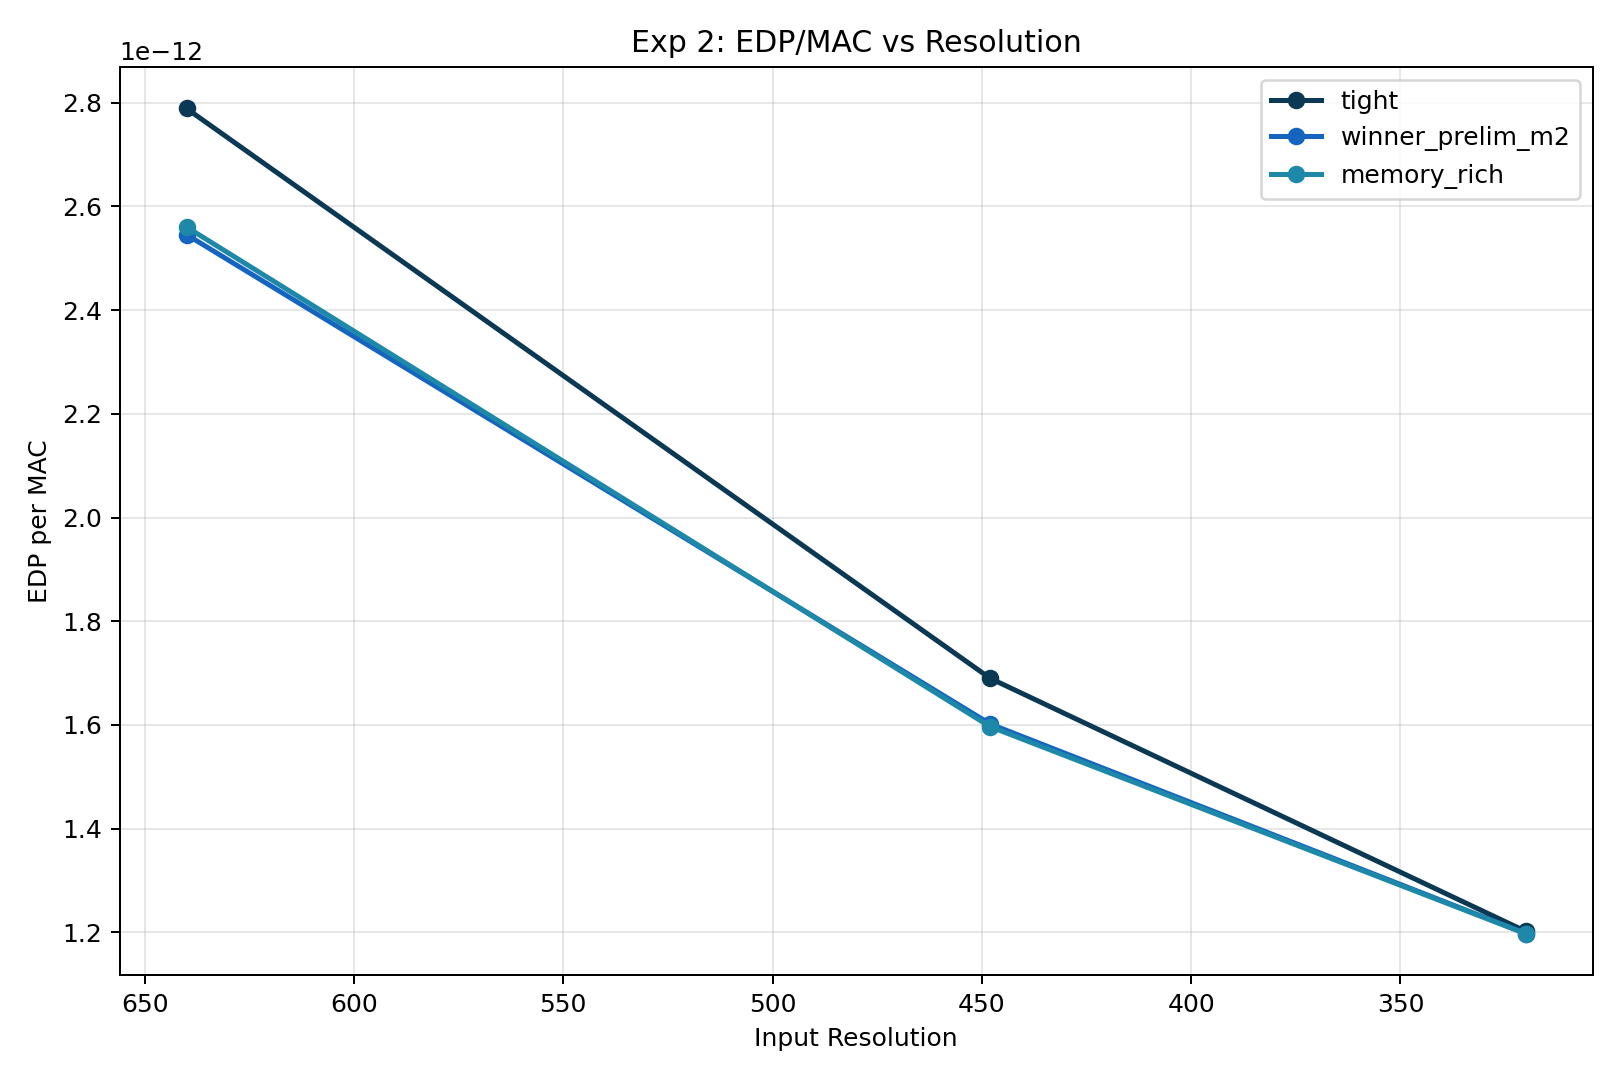
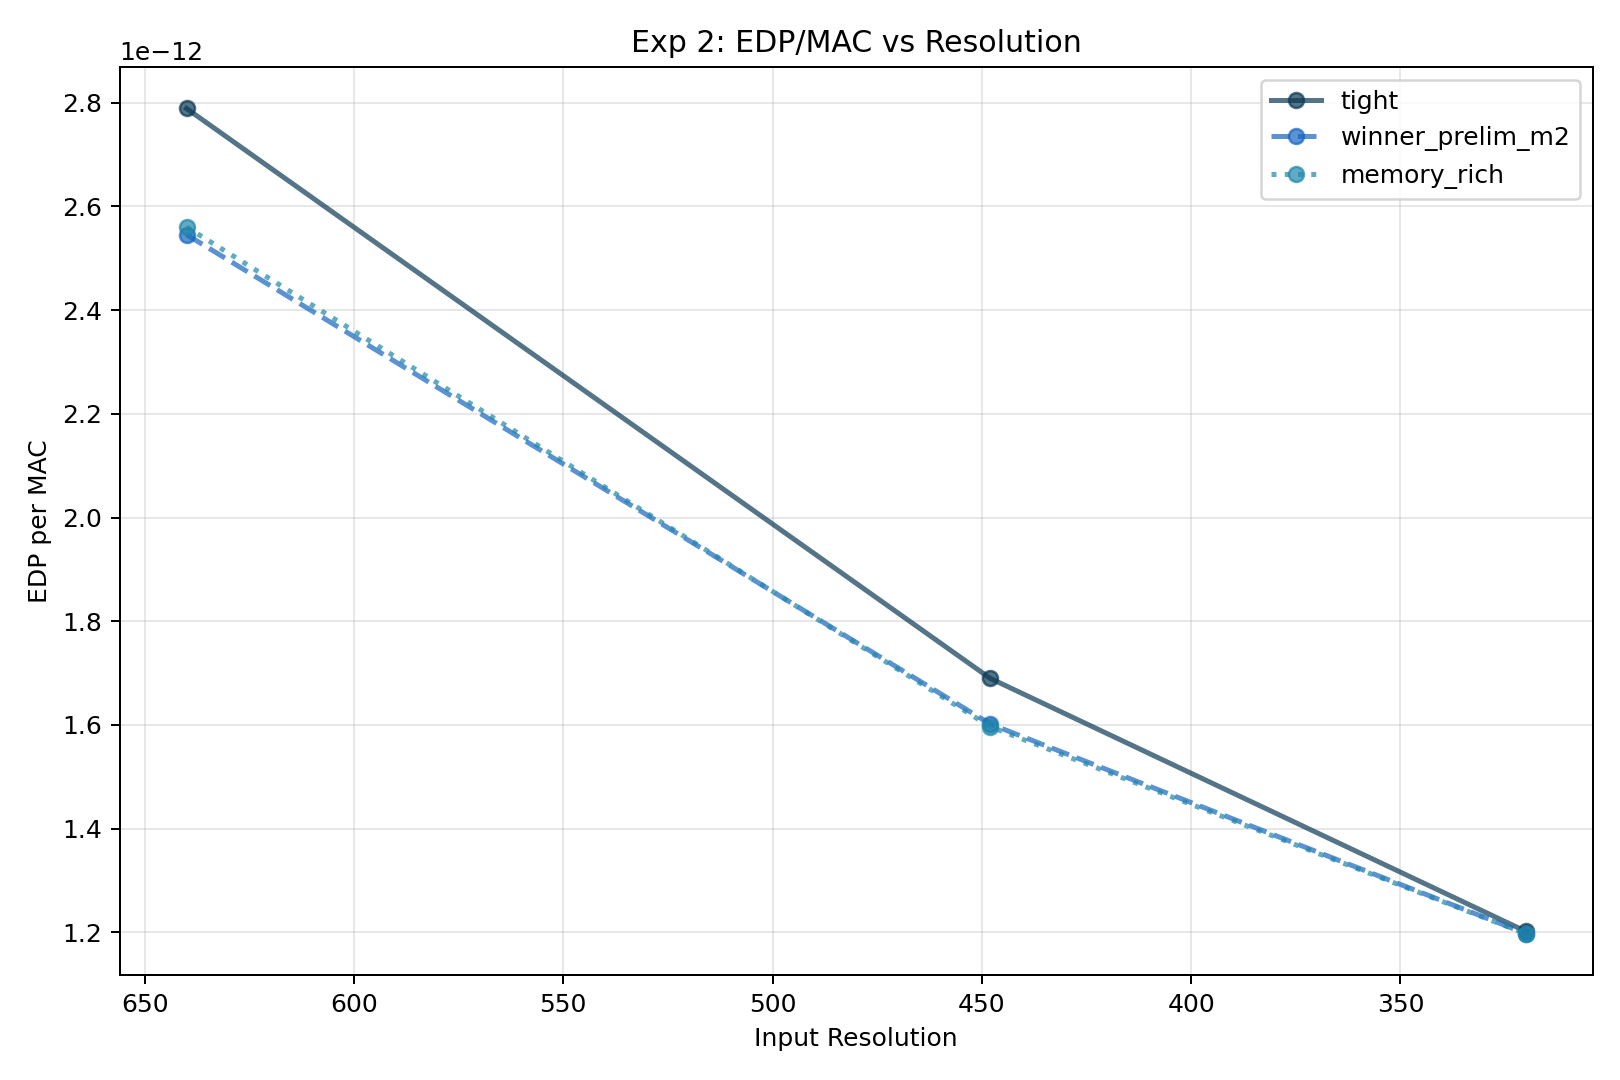
improve exp 2 plots

diff --git a/milestone_2/plot_final_results.py b/milestone_2/plot_final_results.py
@@ -130,12 +130,16 @@ def plot_exp2(exp2_path: Path, out_dir: Path) -> None:
     d = json.loads(exp2_path.read_text())["by_hw"]
     res = [640, 448, 320]
     res_str = [str(r) for r in res]
+    linestyles = ["-", "--", ":", "-.", (0, (3, 1, 1, 1))]
+    line_alpha = 0.7
 
     # Figure 1: raw EDP/MAC vs resolution
     fig, ax = plt.subplots(figsize=(9, 6))
     for i, (hw_name, hw) in enumerate(d.items()):
         y = [hw["by_resolution"][r]["edp_per_mac"] for r in res_str]
-        ax.plot(res, y, marker="o", linewidth=2, label=hw_name, color=OCEAN[i % len(OCEAN)])
+        ax.plot(res, y, marker="o", linewidth=2, label=hw_name,
+                color=OCEAN[i % len(OCEAN)], linestyle=linestyles[i % len(linestyles)],
+                alpha=line_alpha)
     ax.invert_xaxis()
     ax.set_xlabel("Input Resolution")
     ax.set_ylabel("EDP per MAC")
@@ -151,7 +155,9 @@ def plot_exp2(exp2_path: Path, out_dir: Path) -> None:
     for i, (hw_name, hw) in enumerate(d.items()):
         base = hw["by_resolution"]["640"]["edp_per_mac"]
         y = [hw["by_resolution"][r]["edp_per_mac"] / base for r in res_str]
-        ax.plot(res, y, marker="o", linewidth=2, label=hw_name, color=OCEAN[i % len(OCEAN)])
+        ax.plot(res, y, marker="o", linewidth=2, label=hw_name,
+                color=OCEAN[i % len(OCEAN)], linestyle=linestyles[i % len(linestyles)],
+                alpha=line_alpha)
     ax.axhline(1.0, linestyle="--", color="gray", linewidth=1)
     ax.invert_xaxis()
     ax.set_xlabel("Input Resolution")
@@ -171,7 +177,8 @@ def plot_exp2(exp2_path: Path, out_dir: Path) -> None:
         ids = sorted(set(l640) & set(l320))
         speedup = [l640[j]["latency_s"] / l320[j]["latency_s"] for j in ids]
         ax.plot([f"T{j}" for j in ids], speedup, marker="o", linewidth=2,
-                label=hw_name, color=OCEAN[i % len(OCEAN)])
+                label=hw_name, color=OCEAN[i % len(OCEAN)],
+                linestyle=linestyles[i % len(linestyles)], alpha=line_alpha)
     ax.axhline(1.0, linestyle="--", color="gray", linewidth=1)
     ax.set_ylabel("Latency speedup (640/320)")
     ax.set_title("Exp 2: Per-layer Latency Speedup from 320px")
